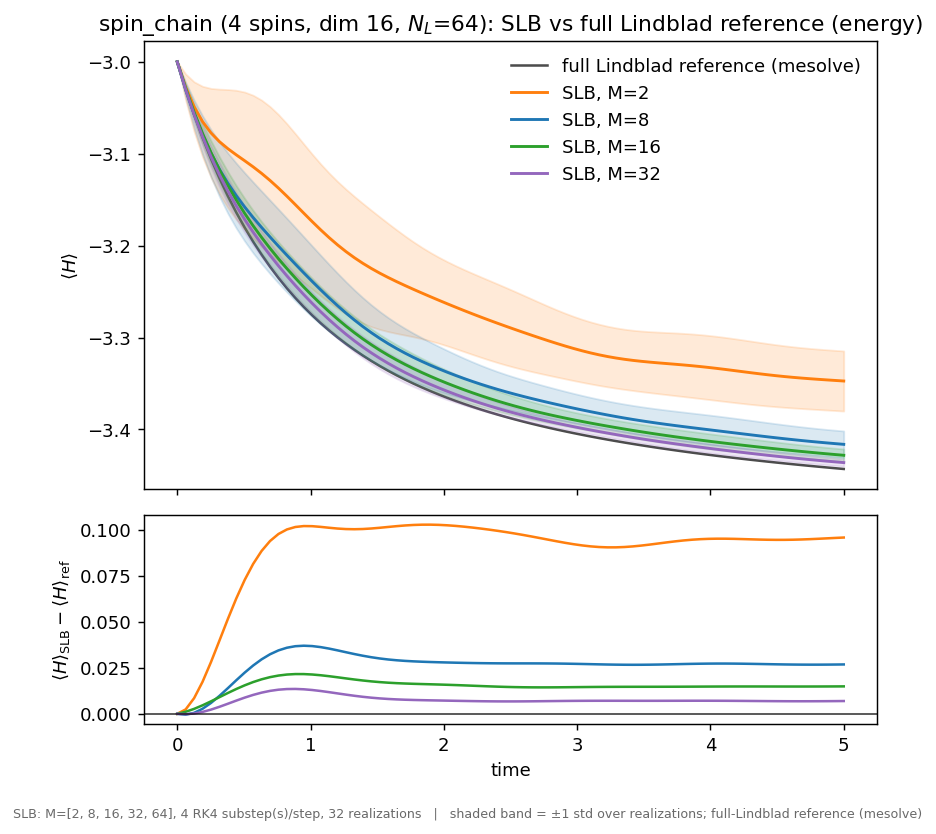
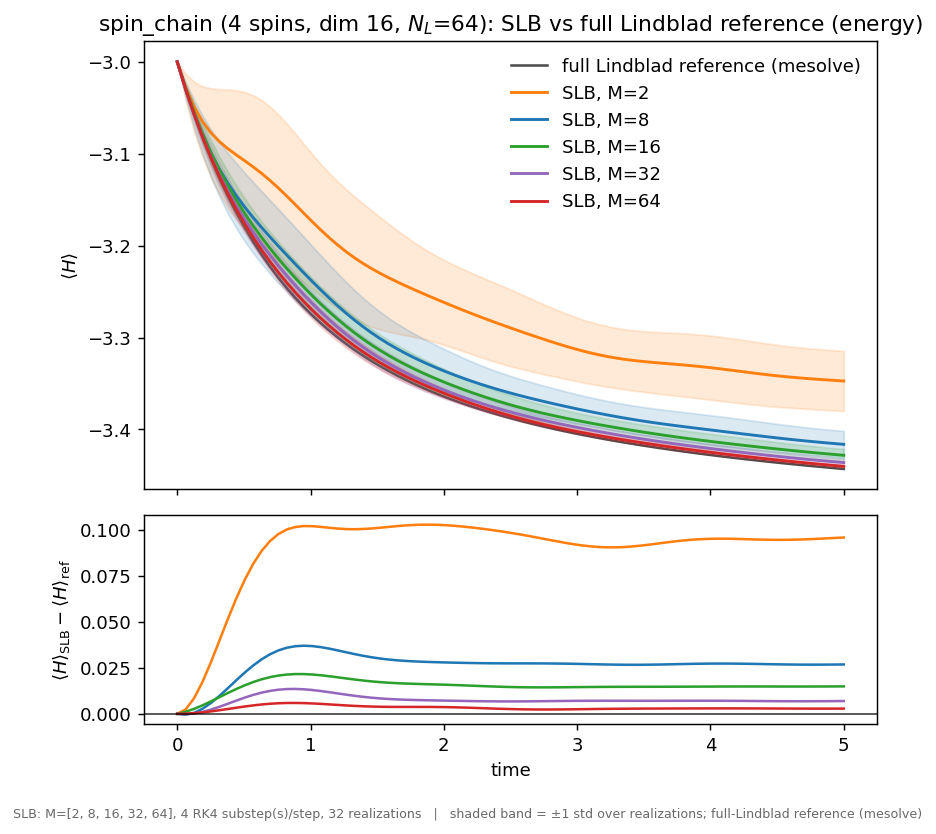
benchmarks: plot all SLB M-curves in accuracy/coherence figures
The accuracy/coherence color palette had only 4 entries while up to 5 M values are computed, so zip() silently dropped the highest-M curve even though the footer listed it. Extend the palette and regenerate the affected spin_chain figures so every computed M is shown and the footer matches.

diff --git a/benchmarks/benchmark_scaling.py b/benchmarks/benchmark_scaling.py
@@ -397,7 +397,8 @@ def _accuracy_figure(plt, name, tlist, reference, curves, acc_dim, acc_n_l,
     )
     ax.plot(tlist, reference, "k-", lw=1.4, alpha=0.7,
             label="full Lindblad reference (mesolve)", zorder=1)
-    palette = ["tab:orange", "tab:blue", "tab:green", "tab:purple"]
+    palette = ["tab:orange", "tab:blue", "tab:green", "tab:purple",
+               "tab:red", "tab:brown", "tab:pink", "tab:olive"]
     for (m_eff, (mean, std)), col in zip(sorted(curves.items()), palette):
         ax.plot(tlist, mean, "-", color=col, lw=1.6, label=f"SLB, M={m_eff}",
                 zorder=3)